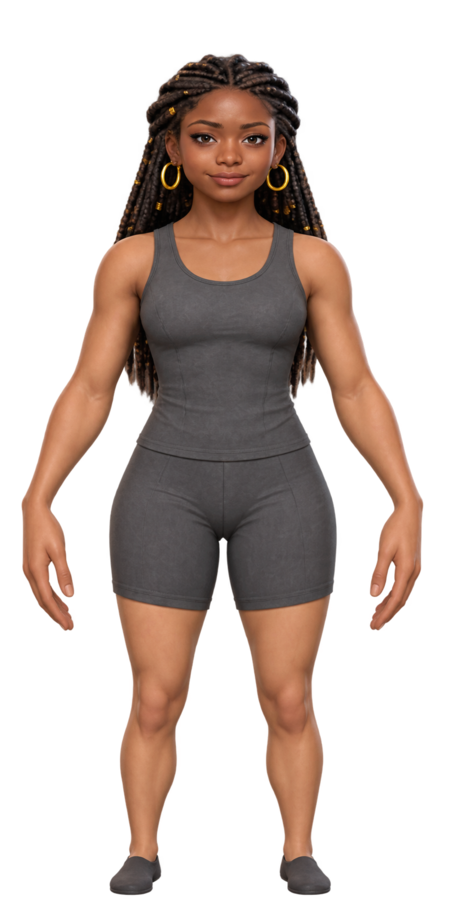
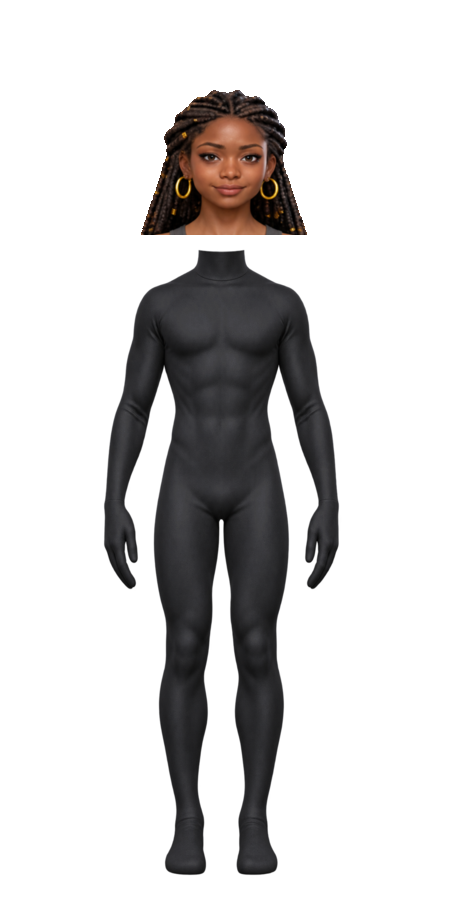
Lock all explorers to one fitting silhouette

diff --git a/html/verbia.html b/html/verbia.html
@@ -975,6 +975,7 @@
       const tilts = [-8,5,11,-5,7,-11];
       const storageKey = "verbia-progress-v3";
       const settingsKey = "verbia-settings-v1";
+      const testingCatalogUnlocked = true;
       const avatars = [
         {id:"rx7",name:"RX-7",index:8,bodySrc:"../images/verbia/bodies-standard/rx7.png",bodyIndex:0,cost:0},
         {id:"nova",name:"Nova",src:"../images/verbia/avatar-nova-v2-cable-hair.png",bodySrc:"../images/verbia/bodies-standard/nova.png",bodyIndex:1,cost:0},
@@ -2010,6 +2011,10 @@
         }
         if (!Array.isArray(progress.unlockedAvatars)) progress.unlockedAvatars = ["rx7","nova"];
         progress.unlockedAvatars = [...new Set(["rx7","nova",...progress.unlockedAvatars.filter(id => avatars.some(avatar => avatar.id === id))])];
+        if (testingCatalogUnlocked) {
+          progress.unlockedAvatars = avatars.map(avatar => avatar.id);
+          progress.inventory.owned = shopItems.map(item => item.id);
+        }
       }
 
       function renderShop() {
